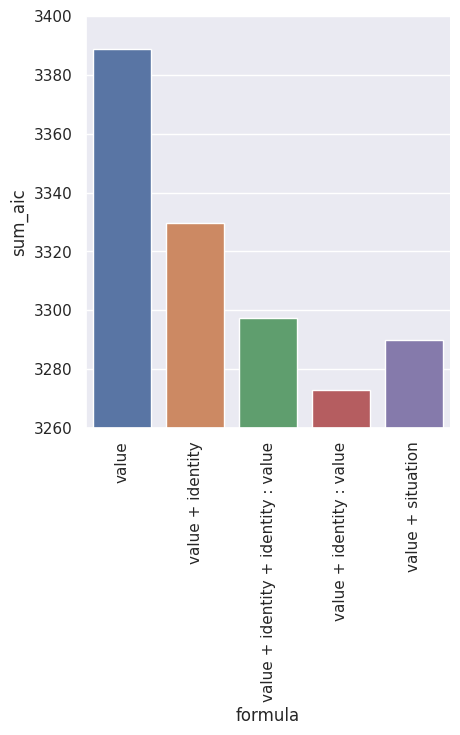
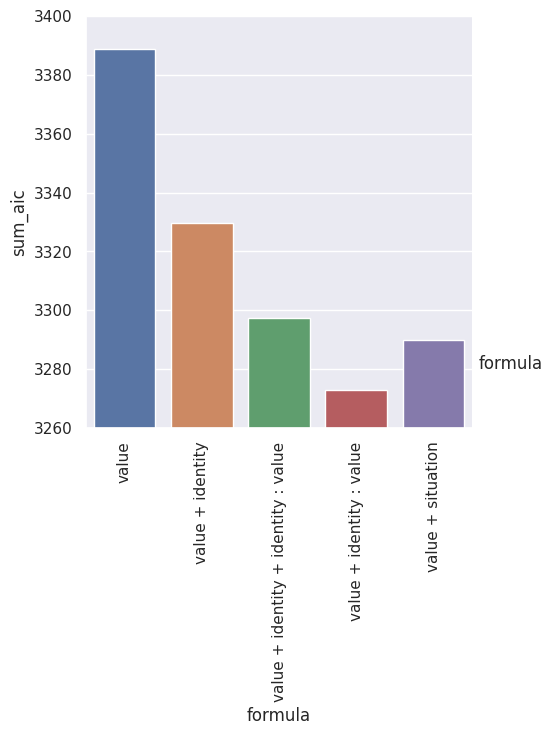
update 14 files

diff --git a/Simulations/neurons_analysis/README.md b/Simulations/neurons_analysis/README.md
@@ -1,6 +1,28 @@
 **Run the following command from root directory of the repo.**
 
-# base
+# base-bic
+
+```bash
+rm -r $RESULTS_DIR/neurons_analysis/ ; \
+python main.py -c neurons_analysis/base && \
+python analysis_v1.py \
+-t "base-bic-all_neuron" \
+--p "sns.set_theme()" \
+-l $RESULTS_DIR/neurons_analysis/ \
+-m "df['bic'].iloc[-1]" \
+-f "./Simulations/neurons_analysis/base.yaml" \
+-v \
+"import Simulations.neurons_analysis.utils as eu" \
+"df=eu.proc_df(df, 'bic')" \
+"df=au.reduce(df, ['formula'], lambda df: {'sum_bic': df['bic'].sum()})" \
+"g=sns.catplot(data=df, kind='bar', y='sum_bic', x='formula', hue='formula')" \
+"g.set(ylim=(3380, 3480))" \
+"g.set_xticklabels(rotation=90)"
+```
+
+![](base-bic-all_neuron-.png)
+
+# base-aic
 
 ```bash
 rm -r $RESULTS_DIR/neurons_analysis/ ; \
@@ -15,7 +37,7 @@ python analysis_v1.py \
 "import Simulations.neurons_analysis.utils as eu" \
 "df=eu.proc_df(df, 'aic')" \
 "df=au.reduce(df, ['formula'], lambda df: {'sum_aic': df['aic'].sum()})" \
-"g=sns.catplot(data=df, kind='bar', y='sum_aic', x='formula')" \
+"g=sns.catplot(data=df, kind='bar', y='sum_aic', x='formula', hue='formula')" \
 "g.set(ylim=(3260, 3400))" \
 "g.set_xticklabels(rotation=90)"
 ```
